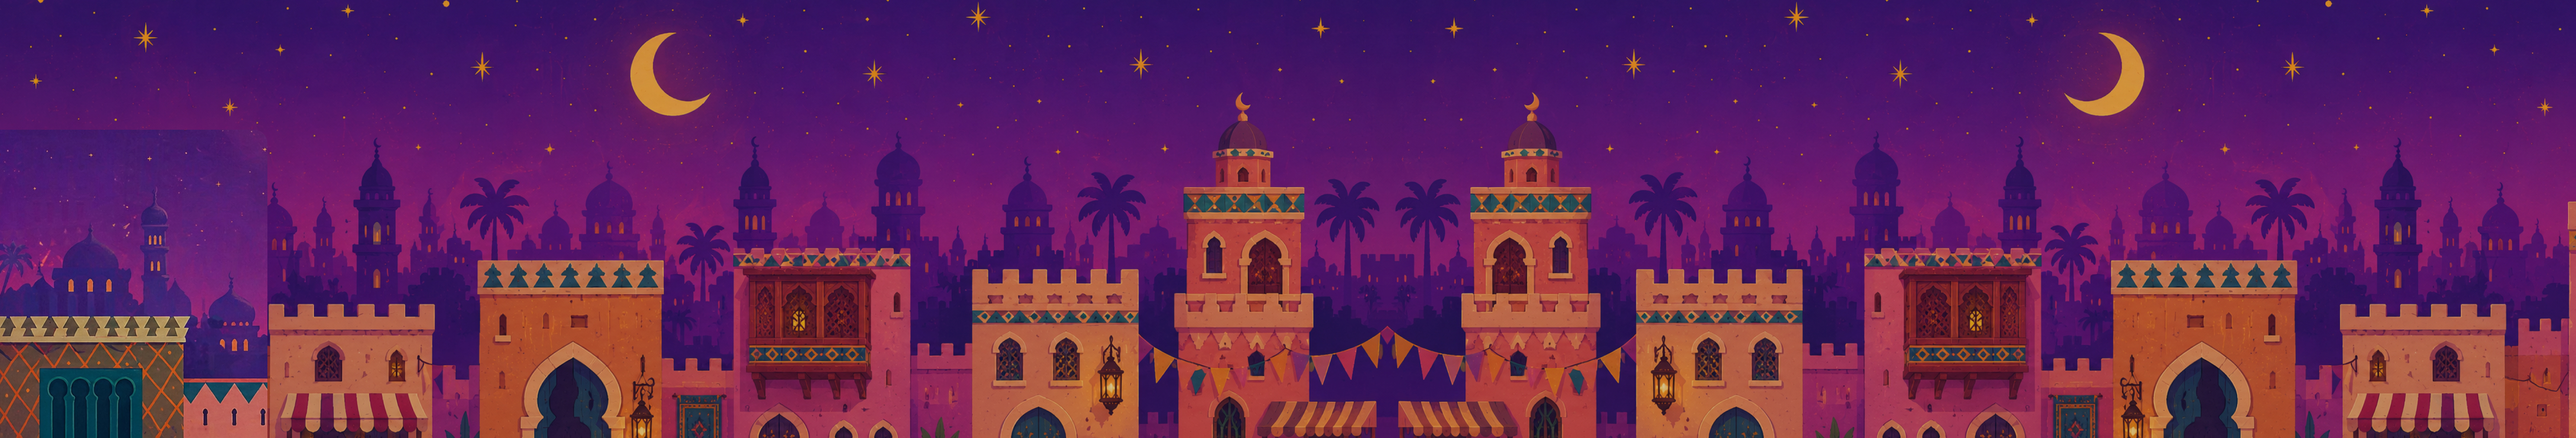
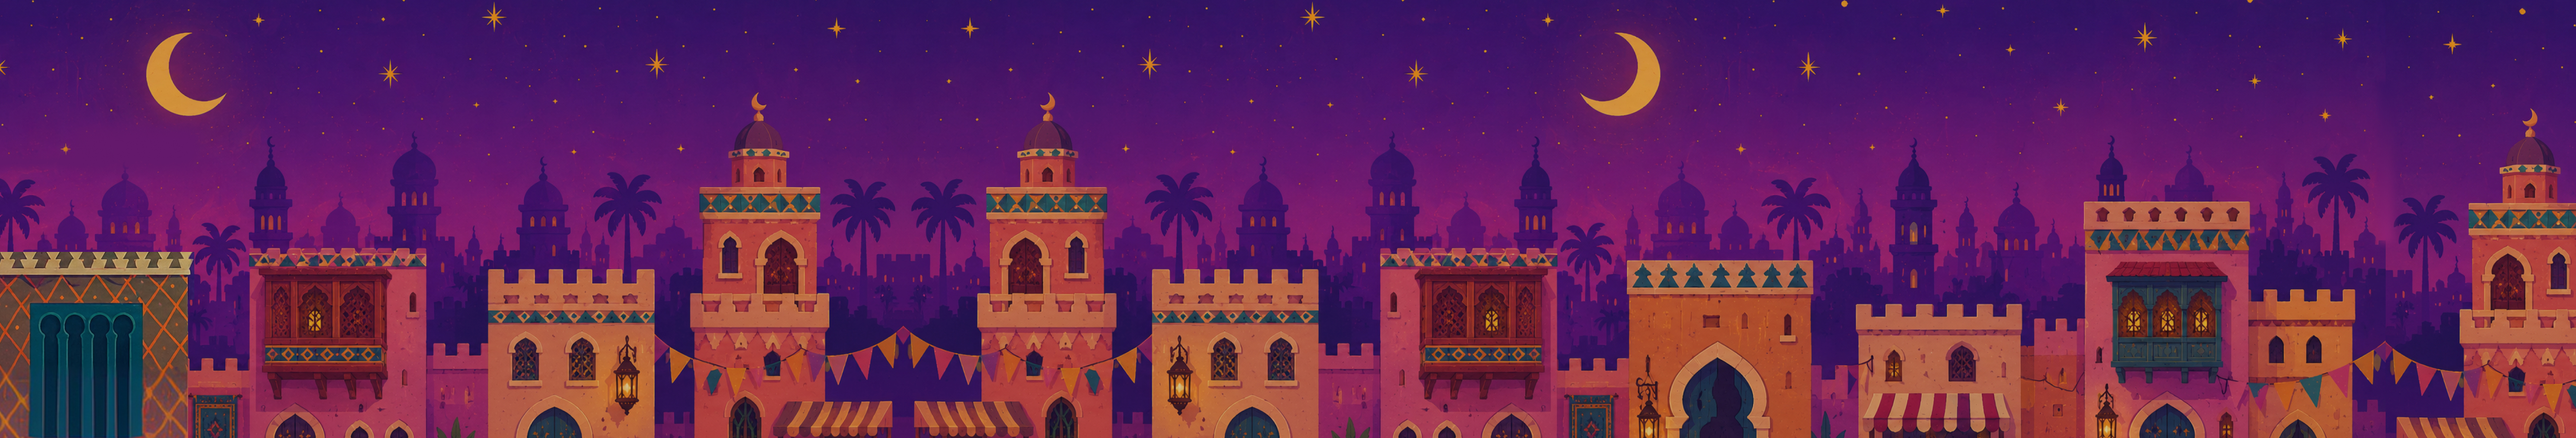
added onboarding and prewin2

diff --git a/fanous/src/pages/mission2.jsx b/fanous/src/pages/mission2.jsx
@@ -1,0 +1,116 @@
+import React, { useState } from 'react';
+import './home.css'
+import './menu.css'
+import { Link, useNavigate } from 'react-router-dom';
+import './../animations.css'
+import './../components/layout/header.css'
+
+import back from './../assets/back.svg'
+import char from './../assets/farida flying.png'
+import splash from './../assets/menuBg.jpg'
+import air from './../assets/wind.gif'
+
+import bat from './../assets/bat1.png'
+import stars from './../assets/fanousprogress.png'
+import star from './../assets/shootingstar1.png'
+import fix from './../assets/fixframe.png'
+
+
+
+
+import Button from '../components/common/button';
+import Heading from '../components/common/heading';
+import Textbox from '../components/common/textbox';
+import TapAnimation from '../components/common/tap';
+import Timer from '../components/common/timer';
+
+const slides = [
+  {
+    key: 'collect',
+    content: () => (
+      <>
+        <div className="howtoFlex ">
+          <div className="flex2">
+            {/* <img style={{ objectFit: 'contain', width: '100px' }} src={star} alt="" /> */}
+             
+          <Textbox heading="! جمع  " text="   جمع ثمان شهب في 60 ثانية" />
+          </div>
+        </div>
+        <div className="flex2">
+<div style={{ position: 'relative' , bottom: 'unset' , right: 'unset' , fontSize: '40px' }} className="timer">
+            60 <span>ثانية</span>
+          </div>
+            <img src={stars} alt="" />
+          </div>
+        <div className="howtoFlex floatIn" style={{ margin: '16px 0 26px 0' }}>
+          <img  style={{ marginRight: '10px' }} className='float' src={bat} alt="" />
+          <Textbox heading="! انتبه  " text="الوطاويط تحب الظلام." />
+        </div>
+      </>
+    ),
+    btnStyle: 'secondarybtn',
+    btnCta: 'عودة للعب',
+  },
+  // {
+  //   key: 'fix',
+  //   content: () => (
+  //     <>
+  //       <div className="howtoFlex" style={{ marginTop: '12px' }}>
+  //       <img  style={{ width: '97px' }} src={air} alt="" />
+
+  //         <Textbox heading="انتبه !" text="فالرباح تطفئ أنوار الفوانيس!" />
+  //       </div>
+  //       <div className="howtoFlex" style={{ marginTop: '16px' }}>
+  //       <img style={{ width: '70px' }} src={fix} alt="" />
+  //         <Textbox heading="أصلح" text="بعض الأدوار تطلب منك إصلاح الفانوس!" />
+  //       </div>
+  //     </>
+  //   ),
+  //   btnStyle: 'primaryBtn homeBtn',
+  //   btnCta: 'ألعب الآن!',
+  // },
+];
+
+const Mission2 = () => {
+  const navigate = useNavigate();
+  const [step, setStep] = useState(0);
+  const currentSlide = slides[step];
+  const isLast = step === slides.length - 1;
+
+  const handleNext = () => {
+    if (isLast) {
+      navigate('/onboarding');
+    } else {
+      setStep(s => s + 1);
+    }
+  };
+
+  return (
+
+    
+    <>
+      <div style={{ paddingTop: '50px' }} className="fixed-mobile-wrapper">
+        <img className='splashBg' src={splash} alt="" />
+        <header>
+          <Link onClick={(e) => { e.preventDefault(); navigate(-1); }} to="#">
+            <button className="iconbtnmian">
+              <img src={back} alt="" />
+            </button>
+          </Link>
+        </header>
+        <div className="menuPanel  floatIn">
+          <Heading heading="مهمتي " />
+          {currentSlide.content(char)}
+  <div style={{ animationDelay: '0.1s' }} className='floatIn' onClick={handleNext}>
+    <Button
+      style1={currentSlide.btnStyle}
+      cta={currentSlide.btnCta}
+    />
+  </div>
+        </div>
+      </div>
+    </>
+  );
+};
+
+export default Mission2;

diff --git a/fanous/src/pages/prewin.jsx b/fanous/src/pages/prewin.jsx
@@ -22,6 +22,7 @@ import Music from '../components/common/music';
 import Progress from '../components/common/progress';
 
 const PreWin = () => {
+    
     const navigate = useNavigate();
 
     const starsCollected = parseInt(
@@ -30,7 +31,7 @@ const PreWin = () => {
     );
 
     const [scene, setScene] = useState(0);
-
+const [hideDepth, setHideDepth] = useState(false);
     const audioRef = useRef(null);
 
     const narrations = [
@@ -39,36 +40,43 @@ const PreWin = () => {
     ];
 
     useEffect(() => {
-        const timers = [];
+    const timers = [];
 
-        // Mosque reached
-        timers.push(
-            setTimeout(() => {
-                setScene(1);
-
-                if (audioRef.current) {
-                    audioRef.current.play().catch(() => {});
-                }
-            }, 8000)
-        );
-
-        // Navigate after adhan finishes
-        timers.push(
-            setTimeout(() => {
-                navigate('/win');
-            }, 22000)
-        );
-
-        return () => {
-            timers.forEach(clearTimeout);
+    // Reach the mosque
+    timers.push(
+        setTimeout(() => {
+            setScene(1);
 
             if (audioRef.current) {
-                audioRef.current.pause();
-                audioRef.current.currentTime = 0;
+                audioRef.current.play().catch(() => {});
             }
-        };
-    }, [navigate]);
 
+            // Fade out the depth layer 1 second later
+            timers.push(
+                setTimeout(() => {
+                    setHideDepth(true);
+                }, 1000)
+            );
+
+        }, 8000)
+    );
+
+    // Navigate after adhan finishes
+    timers.push(
+        setTimeout(() => {
+            navigate('/win');
+        }, 22000)
+    );
+
+    return () => {
+        timers.forEach(clearTimeout);
+
+        if (audioRef.current) {
+            audioRef.current.pause();
+            audioRef.current.currentTime = 0;
+        }
+    };
+}, [navigate]);
     return (
         <>
             <div className="fixed-mobile-wrapper">
@@ -96,12 +104,13 @@ const PreWin = () => {
                     alt=""
                 />
 
-                <img
-                    className="splashBg"
-                    src={depth}
-                    alt=""
-                />
-
+               <img
+            className={`splashBg depthOverlay ${
+                hideDepth ? 'depthFadeOut' : ''
+            }`}
+            src={depth}
+            alt=""
+        />
                 <div
                     key={scene}
                     className="floatIn narration prewinNarration"

diff --git a/fanous/src/pages/onboarding2.jsx b/fanous/src/pages/onboarding2.jsx
@@ -1,0 +1,67 @@
+import React from 'react';
+import './home.css'
+import './../animations.css'
+import './../components/layout/header.css'
+import { useNavigate } from 'react-router-dom';
+import { useEffect, useState } from 'react';
+
+import depth from './../assets/onboardDepth.svg'
+
+import menu from './../assets/menu.svg'
+
+import character from './../assets/onboardchar.png'
+
+
+
+import splash from './../assets/onboardbg.png'
+import Button from '../components/common/button';
+import IconBtn from '../components/common/iconbtn';
+import TapAnimation from '../components/common/tap';
+
+const Onboarding2 = () => {
+       const navigate = useNavigate();
+    const [started, setStarted] = useState(false);
+
+    const handleStart = () => {
+        setStarted(true);
+    };
+
+    useEffect(() => {
+        if (!started) return;
+        const timer = setTimeout(() => {
+            navigate('/gameplay1');
+        }, null);
+        return () => clearTimeout(timer);
+    }, [started, navigate]);
+
+    return ( <>
+     <div onClick={handleStart} className="fixed-mobile-wrapper">
+             {!started && (
+                            <div className="tapOverlay" onClick={handleStart}>
+                            اضغط للبدء
+                            </div>
+                        )}
+        <header>
+    <IconBtn
+        icon={menu}
+        style1="iconbtnmian"
+        link="/menu" />
+        </header>
+        <img className='splashBg ' src={splash} alt="" />
+        <img className='splashBg' src={depth} alt="" />
+       <div className='floatIn'>
+         <h2 style={{ animationDelay: '0.1s' }} className='onboardText flicker'> اضغط الشاشة  للبدأ! </h2>
+        <TapAnimation />
+       </div>
+        <img  style={{ animationDelay: '0.2s' }} className='floatIn onboardChar' src={character} alt="" />
+        <div
+    style={{ animationDelay: '0.3s', zIndex: '999999999' }}
+    className="missonBtn floatIn"
+    onClick={(e) => e.stopPropagation()}
+>
+    <Button link="/mission" style1="primarybtn" cta="مهمتي" />
+</div>
+    </div>
+    </> );
+}
+export default Onboarding2;

diff --git a/fanous/src/pages/levels.jsx b/fanous/src/pages/levels.jsx
@@ -33,45 +33,45 @@ const Levels = () => {
         </header>
         <img className='splashBg levelsBg' src={splash} alt="" />
         <div className="splashBg depth"></div>
-<LevelComp 
-link="/gameplay1"
-cont="lvlBg lvl1 floatIn"
-stylepos="levelComp"
-style1="levelCont current"
-name=" ابن طولون"
-number="1"
-/>
-<LevelComp 
-link="/gameplay2"
-cont="lvlBg lvl2 "
-stylepos="levelComp  floatIn glow"
-style1="levelCont  current"
-name=" المرسي ابو العباس "
-number="2"
-/>
-<LevelComp 
-cont="lvlBg lvl3 levelCompInactive"
-stylepos="levelComp floatIn "
-style1="levelCont inactive"
-name=" القلعة"
-number="3"
-/>
-<LevelComp 
-cont="lvlBg lvl4 levelCompInactive"
-stylepos="levelComp  floatIn"
-style1="levelCont inactive"
-name="  ياقوت
-العرش"
-number="4"
-/>
-<LevelComp 
-cont="lvlBg lvl5 levelCompInactive"
-stylepos="levelComp floatIn "
-style1="levelCont inactive"
-name=" الأزهر "
-number="5"
-/>
-    </div>
-    </> );
-}
+    <LevelComp 
+    link="/gameplay1"
+    cont="lvlBg lvl1 floatIn"
+    stylepos="levelComp"
+    style1="levelCont current"
+    name=" ابن طولون"
+    number="1"
+    />
+    <LevelComp 
+    link="/onboarding2"
+    cont="lvlBg lvl2 "
+    stylepos="levelComp floatIn glow"
+    style1="levelCont  current"
+    name=" المرسي ابو العباس "
+    number="2"
+    />
+    <LevelComp 
+    cont="lvlBg lvl3 levelCompInactive"
+    stylepos="levelComp floatIn "
+    style1="levelCont inactive"
+    name=" القلعة"
+    number="3"
+    />
+    <LevelComp 
+    cont="lvlBg lvl4 levelCompInactive"
+    stylepos="levelComp  floatIn"
+    style1="levelCont inactive"
+    name="  ياقوت
+    العرش"
+    number="4"
+    />
+    <LevelComp 
+    cont="lvlBg lvl5 levelCompInactive"
+    stylepos="levelComp floatIn "
+    style1="levelCont inactive"
+    name=" الأزهر "
+    number="5"
+    />
+        </div>
+        </> );
+    }
 export default Levels;

diff --git a/fanous/src/paths.jsx b/fanous/src/paths.jsx
@@ -16,6 +16,8 @@ import Mission from './pages/mission';
 import PreWin from './pages/prewin';
 import Gameplay2 from './pages/gameplay2';
 import PreWin2 from './pages/prewin2';
+import Onboarding2 from './pages/onboarding2';
+import Mission2 from './pages/mission2';
 
 
 function Paths() {
@@ -33,6 +35,9 @@ function Paths() {
         <Route path="/mission" element={<Mission />} />
 
         <Route path="/onboarding" element={<Onboarding />} />
+        <Route path="/onboarding2" element={<Onboarding2 />} />
+        <Route path="/mission2" element={<Mission2 />} />
+
         <Route path="/win" element={<Win />} />
 
         <Route path="/lose" element={<Lose />} />
